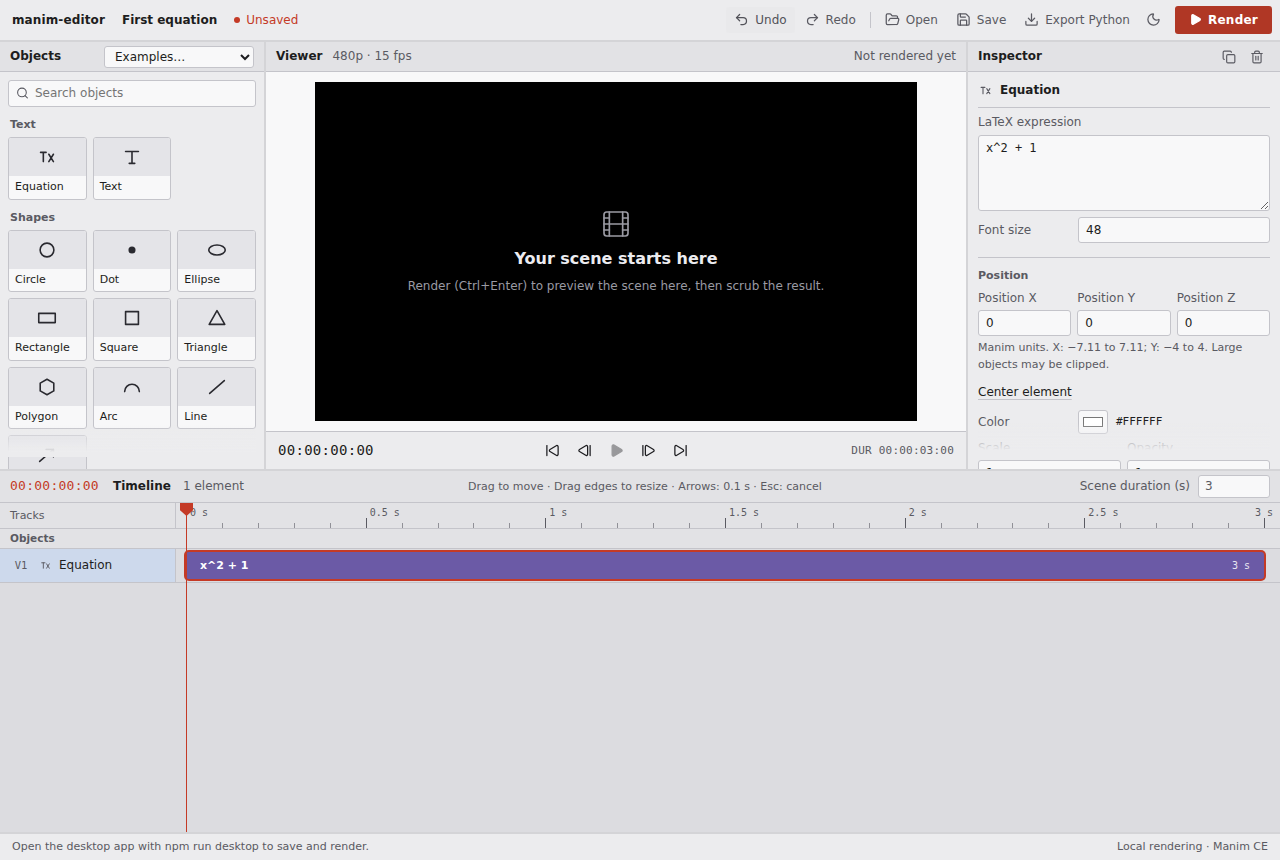
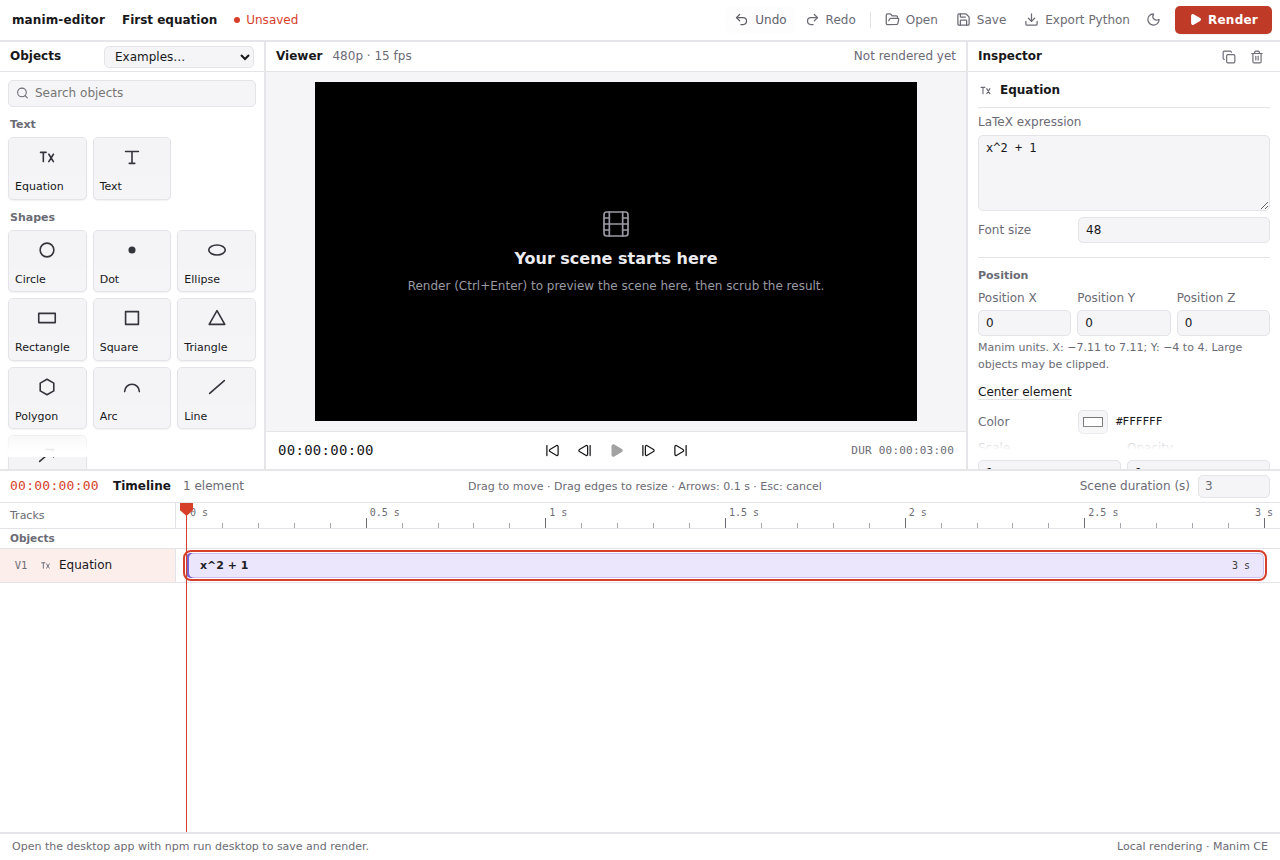
style(ui): modernise the light theme
The light theme was the dark one with lighter greys: grey panels on a
darker grey gutter, headers darker than their bodies, and saturated clips
with white ink on a pale timeline. It now uses white surfaces with
hairline borders, a hot-tinted selection, and soft tinted clips with a
saturated leading edge and dark ink. Clips gain that edge in dark mode
too; the corner radius goes from 3px to 5px and animation clips become
pills.

Claude-Session: https://claude.ai/code/session_019vA9Mcqo4wGcryG5VA5P2q

diff --git a/src/app/style.css b/src/app/style.css
@@ -4,34 +4,38 @@
   --ui: "Segoe UI Variable Text", "Segoe UI", system-ui, sans-serif;
   --mono: "Cascadia Mono", Consolas, monospace;
 
-  --gutter: #d4d4d7;
-  --panel: #ececee;
-  --panel-head: #e2e2e5;
-  --well: #f8f8f9;
-  --line: #c4c4ca;
-  --text: #1d1d20;
-  --muted: #5a5a62;
-  --hover: #d9d9de;
-  --hot: #c43a26;
+  /* Light: white surfaces on a pale canvas, hairlines instead of grey fills. */
+  --gutter: #e6e6ea;
+  --panel: #ffffff;
+  --panel-head: #ffffff;
+  --well: #f5f5f7;
+  --line: #e3e3e8;
+  --text: #18181b;
+  --muted: #6b6b75;
+  --hover: #f1f1f4;
+  --hot: #d6402a;
   --hot-ink: #ffffff;
-  --sel: #cdd9ec;
-  --track: #dcdce0;
-  --track-alt: #d5d5da;
-  --danger: #b4272b;
+  --sel: #fbeeeb;
+  --track: #ffffff;
+  --track-alt: #fafafb;
+  --danger: #c0262d;
   --stage: #000;
-  --thumb: #e4e4e8;
-  --thumb-ink: #2a2a30;
+  --thumb: #f4f4f6;
+  --thumb-ink: #34343c;
+  --shadow: 0 1px 2px rgb(16 16 24 / .06);
 
-  --tone-coords: #6e737d;
-  --tone-graph: #23748a;
-  --tone-tex: #6b5aa6;
-  --tone-text: #85670f;
-  --tone-shape: #3f7a52;
-  --tone-fx: #4b4b55;
-  --tone-fx-line: #2f2f36;
-  --tone-fx-ink: #ffffff;
+  /* Clips: a soft tinted fill, a saturated leading edge, dark ink. */
+  --clip-ink: #1d1d24;
+  --tone-coords: #eceef2;  --edge-coords: #8a909c;
+  --tone-graph: #dcf0f4;   --edge-graph: #1f8aa3;
+  --tone-tex: #ebe6fb;     --edge-tex: #7a63d1;
+  --tone-text: #f9efcf;    --edge-text: #b88a0c;
+  --tone-shape: #ddf1e4;   --edge-shape: #3c9a5e;
+  --tone-fx: #ffffff;
+  --tone-fx-line: #d6d6dd;
+  --tone-fx-ink: #2a2a32;
 
-  --radius: 3px;
+  --radius: 5px;
   --label-w: 176px;
   --lane-start: 10px;
   --lane-end: 16px;
@@ -59,11 +63,13 @@
   --thumb: #050506;
   --thumb-ink: #f2f2f4;
 
-  --tone-coords: #4c515a;
-  --tone-graph: #1c6578;
-  --tone-tex: #54478a;
-  --tone-text: #7a5f12;
-  --tone-shape: #2f5f40;
+  --shadow: none;
+  --clip-ink: #ffffff;
+  --tone-coords: #4c515a;  --edge-coords: #7d8490;
+  --tone-graph: #1c6578;   --edge-graph: #3ba3bd;
+  --tone-tex: #54478a;     --edge-tex: #8d7ad8;
+  --tone-text: #7a5f12;    --edge-text: #c99a1c;
+  --tone-shape: #2f5f40;   --edge-shape: #4fa36c;
   --tone-fx: #2f2f37;
   --tone-fx-line: #4c4c57;
   --tone-fx-ink: #dcdce0;
@@ -130,7 +136,7 @@ select { min-height: 26px; }
 .text-button:hover:not(:disabled) { color: var(--text); }
 .icon-button { color: var(--muted); padding: 6px; }
 .bar-divider { width: 1px; height: 16px; background: var(--line); margin: 0 4px; }
-.primary { background: var(--hot); color: var(--hot-ink); font-weight: 700; padding: 6px 14px; margin-left: 6px; letter-spacing: .02em; }
+.primary { box-shadow: var(--shadow); background: var(--hot); color: var(--hot-ink); font-weight: 700; padding: 6px 14px; margin-left: 6px; letter-spacing: .02em; }
 .primary:hover:not(:disabled) { background: color-mix(in srgb, var(--hot) 86%, var(--text)); }
 
 /* Upper row: pool | viewer | inspector */
@@ -152,10 +158,11 @@ select { min-height: 26px; }
 .catalog-group h3 { font-size: 11px; font-weight: 600; color: var(--muted); margin: 10px 2px 5px; }
 .catalog-grid { display: grid; grid-template-columns: repeat(3, minmax(0, 1fr)); gap: 6px; }
 .library-item {
+  box-shadow: var(--shadow);
   display: flex; flex-direction: column; align-items: stretch; gap: 0; padding: 0; overflow: hidden;
   border: 1px solid var(--line); background: var(--well); text-align: left;
 }
-.library-item:hover:not(:disabled) { border-color: var(--muted); background: var(--well); }
+.library-item:hover:not(:disabled) { border-color: color-mix(in srgb, var(--hot) 45%, var(--line)); background: var(--well); }
 .library-item .thumb { display: grid; place-items: center; height: 38px; background: var(--thumb); color: var(--thumb-ink); }
 .library-item .name { padding: 3px 6px 4px; font-size: 11px; white-space: nowrap; overflow: hidden; text-overflow: ellipsis; }
 .library-item:disabled { cursor: not-allowed; }
@@ -264,25 +271,27 @@ label.checkbox input { width: auto; }
 
 .editable-clip {
   container-type: inline-size;
-  position: absolute; top: 3px; bottom: 3px; display: flex; align-items: stretch; min-width: 8px;
-  border-radius: var(--radius); color: #fff; touch-action: none;
-  background: var(--tone-shape); box-shadow: inset 0 0 0 1px rgb(255 255 255 / .16);
+  position: absolute; top: 4px; bottom: 4px; display: flex; align-items: stretch; min-width: 8px;
+  border-radius: var(--radius); color: var(--clip-ink); touch-action: none;
+  --fill: var(--tone-shape); --edge: var(--edge-shape);
+  background: var(--fill);
+  box-shadow: inset 3px 0 0 var(--edge), inset 0 0 0 1px color-mix(in srgb, var(--edge) 28%, transparent);
 }
-.editable-clip[data-tone="coords"] { background: var(--tone-coords); }
-.editable-clip[data-tone="graph"] { background: var(--tone-graph); }
-.editable-clip[data-tone="tex"] { background: var(--tone-tex); }
-.editable-clip[data-tone="text"] { background: var(--tone-text); }
-.editable-clip.owned { background-image: repeating-linear-gradient(135deg, transparent 0 9px, rgb(0 0 0 / .1) 9px 10px); }
+.editable-clip[data-tone="coords"] { --fill: var(--tone-coords); --edge: var(--edge-coords); }
+.editable-clip[data-tone="graph"] { --fill: var(--tone-graph); --edge: var(--edge-graph); }
+.editable-clip[data-tone="tex"] { --fill: var(--tone-tex); --edge: var(--edge-tex); }
+.editable-clip[data-tone="text"] { --fill: var(--tone-text); --edge: var(--edge-text); }
+.editable-clip.owned { background-image: repeating-linear-gradient(135deg, transparent 0 9px, color-mix(in srgb, var(--edge) 14%, transparent) 9px 10px); }
 .editable-clip.animation {
-  top: 4px; bottom: 4px; border-radius: 10px; background: var(--tone-fx); color: var(--tone-fx-ink);
-  box-shadow: inset 0 0 0 1px var(--tone-fx-line);
+  top: 5px; bottom: 5px; border-radius: 999px; background: var(--tone-fx); color: var(--tone-fx-ink);
+  box-shadow: inset 0 0 0 1px var(--tone-fx-line), var(--shadow);
 }
-.track.selected .editable-clip { box-shadow: 0 0 0 2px var(--hot); }
+.track.selected .editable-clip { outline: 2px solid var(--hot); outline-offset: 1px; }
 .clip-body {
   flex: 1; min-width: 0; justify-content: flex-start; gap: 5px; padding: 0 7px; border-radius: inherit;
   font-size: 11px; font-weight: 600; cursor: grab; overflow: hidden;
 }
-.clip-body:hover:not(:disabled) { background: rgb(255 255 255 / .08); }
+.clip-body:hover:not(:disabled) { background: color-mix(in srgb, currentColor 7%, transparent); }
 .clip-body:active { cursor: grabbing; transform: none; }
 .editable-clip.animation .clip-body { padding-right: 4px; }
 .editable-clip.animation .clip-duration { padding-right: 9px; }
@@ -294,7 +303,7 @@ label.checkbox input { width: auto; }
 .clip-grip { width: 7px; flex: 0 0 7px; padding: 0; border-radius: 0; cursor: ew-resize; }
 .clip-grip.start { border-radius: var(--radius) 0 0 var(--radius); }
 .clip-grip.end { border-radius: 0 var(--radius) var(--radius) 0; }
-.clip-grip:hover:not(:disabled) { background: rgb(255 255 255 / .3); }
+.clip-grip:hover:not(:disabled) { background: color-mix(in srgb, var(--edge, currentColor) 45%, transparent); }
 
 .playhead-layer {
   position: absolute; top: 0; bottom: 0; pointer-events: none;
